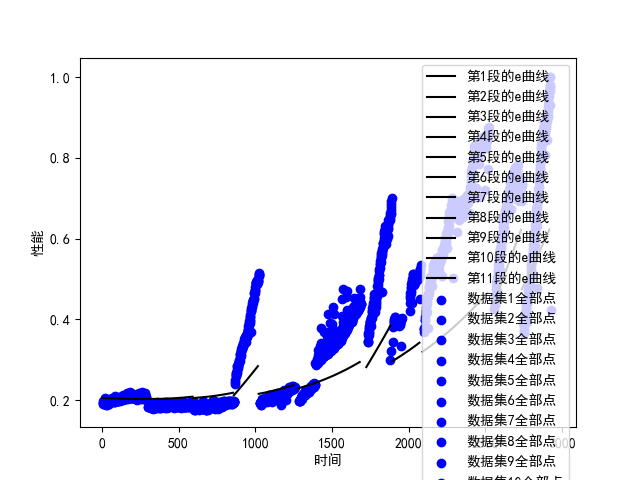
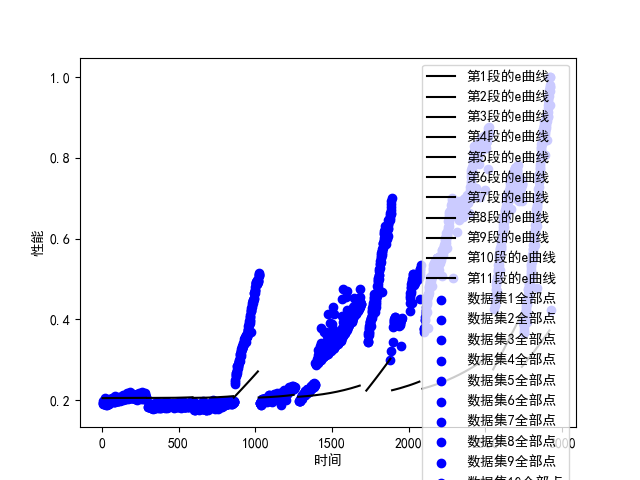
拟合时加入第8段，即将第8段视为正常值

diff --git a/test.py b/test.py
@@ -20,15 +20,16 @@ for segment in [(0, 287), (293, 592), (592, 856), (860, 1018), (1022, 1251), (12
     segment_data = F.Remove_outliers(segment_data)
     data_segments.append(segment_data)
 
-# 处理需要拟合的段（1, 2, 3, 5, 6, 9段）的数据
-age_x = np.concatenate([data_segments[i].iloc[:, 0] for i in [0, 1, 2, 4, 5, 8]])
+# 处理需要拟合的段（1, 2, 3, 5, 6, 8, 9段）的数据
+age_x = np.concatenate([data_segments[i].iloc[:, 0] for i in [0, 1, 2, 4, 5, 7, 8]])
 age_y = np.concatenate([
     data_segments[0].iloc[:, 1],
     data_segments[1].iloc[:, 1] + (data_segments[0].iloc[-1, 1] - data_segments[1].iloc[0, 1]),
     data_segments[2].iloc[:, 1] + (data_segments[0].iloc[-1, 1] - data_segments[1].iloc[0, 1] + data_segments[1].iloc[-1, 1] - data_segments[2].iloc[0, 1]),
     data_segments[4].iloc[:, 1] + (data_segments[0].iloc[-1, 1] - data_segments[1].iloc[0, 1] + data_segments[1].iloc[-1, 1] - data_segments[2].iloc[0, 1] + data_segments[2].iloc[-1, 1] - data_segments[4].iloc[0, 1]),
     data_segments[5].iloc[:, 1] + (data_segments[0].iloc[-1, 1] - data_segments[1].iloc[0, 1] + data_segments[1].iloc[-1, 1] - data_segments[2].iloc[0, 1] + data_segments[2].iloc[-1, 1] - data_segments[4].iloc[0, 1] + data_segments[4].iloc[-1, 1] - data_segments[5].iloc[0, 1]),
-    data_segments[8].iloc[:, 1] + (data_segments[0].iloc[-1, 1] - data_segments[1].iloc[0, 1] + data_segments[1].iloc[-1, 1] - data_segments[2].iloc[0, 1] + data_segments[2].iloc[-1, 1] - data_segments[4].iloc[0, 1] + data_segments[4].iloc[-1, 1] - data_segments[5].iloc[0, 1] + data_segments[5].iloc[-1, 1] - data_segments[8].iloc[0, 1])
+    data_segments[7].iloc[:, 1] + (data_segments[0].iloc[-1, 1] - data_segments[1].iloc[0, 1] + data_segments[1].iloc[-1, 1] - data_segments[2].iloc[0, 1] + data_segments[2].iloc[-1, 1] - data_segments[4].iloc[0, 1] + data_segments[4].iloc[-1, 1] - data_segments[5].iloc[0, 1] + data_segments[5].iloc[-1, 1] - data_segments[7].iloc[0, 1]),
+    data_segments[8].iloc[:, 1] + (data_segments[0].iloc[-1, 1] - data_segments[1].iloc[0, 1] + data_segments[1].iloc[-1, 1] - data_segments[2].iloc[0, 1] + data_segments[2].iloc[-1, 1] - data_segments[4].iloc[0, 1] + data_segments[4].iloc[-1, 1] - data_segments[5].iloc[0, 1] + data_segments[5].iloc[-1, 1] - data_segments[7].iloc[0, 1] + data_segments[7].iloc[-1, 1] - data_segments[8].iloc[0, 1])
 ])
 
 # 将数据转换为np.array
@@ -54,20 +55,20 @@ plt.show()
 # 计算每次维护后delta_x的位移量
 delta_x = [
     -(data_segments[i].iloc[-1, 0] - data_segments[i + 1].iloc[0, 0])
-    for i in [0, 1, 2, 4, 5]
+    for i in [0, 1, 2, 4, 5, 7]
 ]
-print('第1~2, 2~3, 3~5, 5~6, 6~9段位移量分别为')
+print('第1~2, 2~3, 3~5, 5~6, 6~8, 8~9段位移量分别为')
 print(delta_x)
 print('===============================================')
 
 # 计算回推的delta_t, 即delta_x
 delta_y = [
     data_segments[i].iloc[-1, 1] - data_segments[i + 1].iloc[0, 1]
-    for i in [0, 1, 2, 4, 5]
+    for i in [0, 1, 2, 4, 5, 7]
 ]
 
 # 用PSO算法求解最优的delta_t值
-x_value = [data_segments[i].iloc[0, 0] for i in [1, 2, 4, 5, 8]]
+x_value = [data_segments[i].iloc[0, 0] for i in [1, 2, 4, 5, 7, 8]]
 lb = [0]  # t 的下界
 ub = [1000]  # t 的上界（根据实际情况调整）
 
